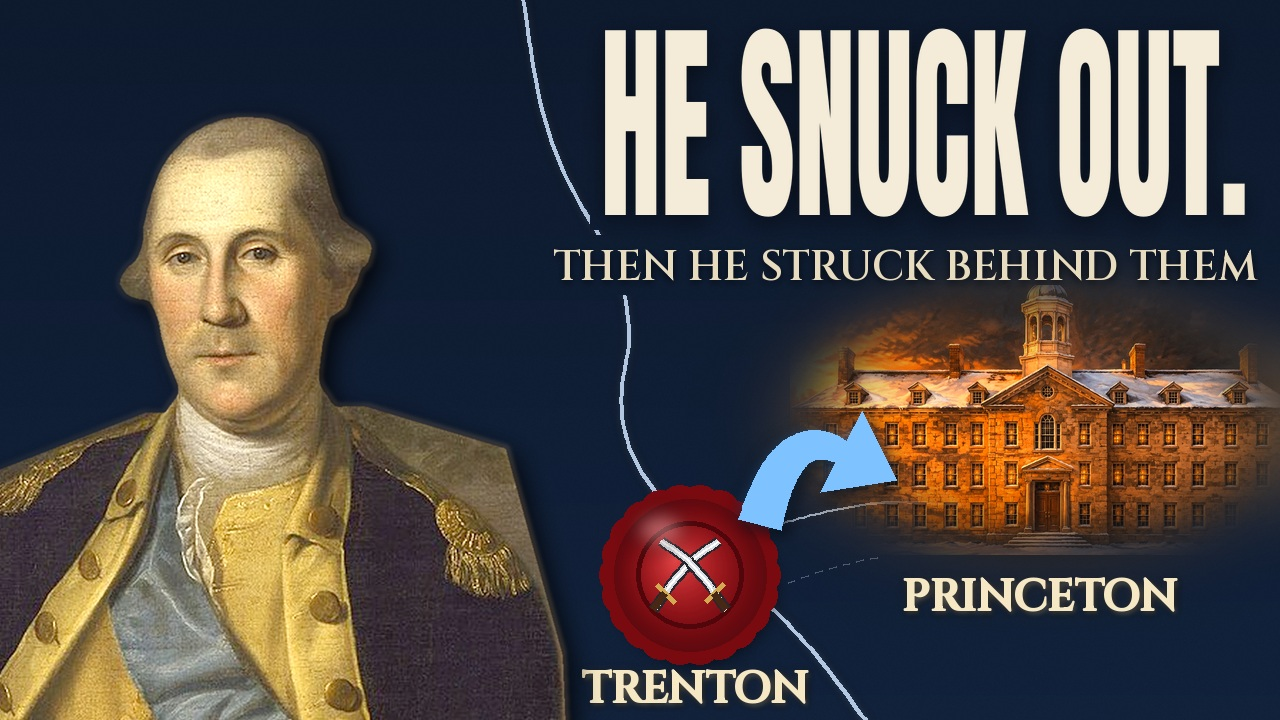
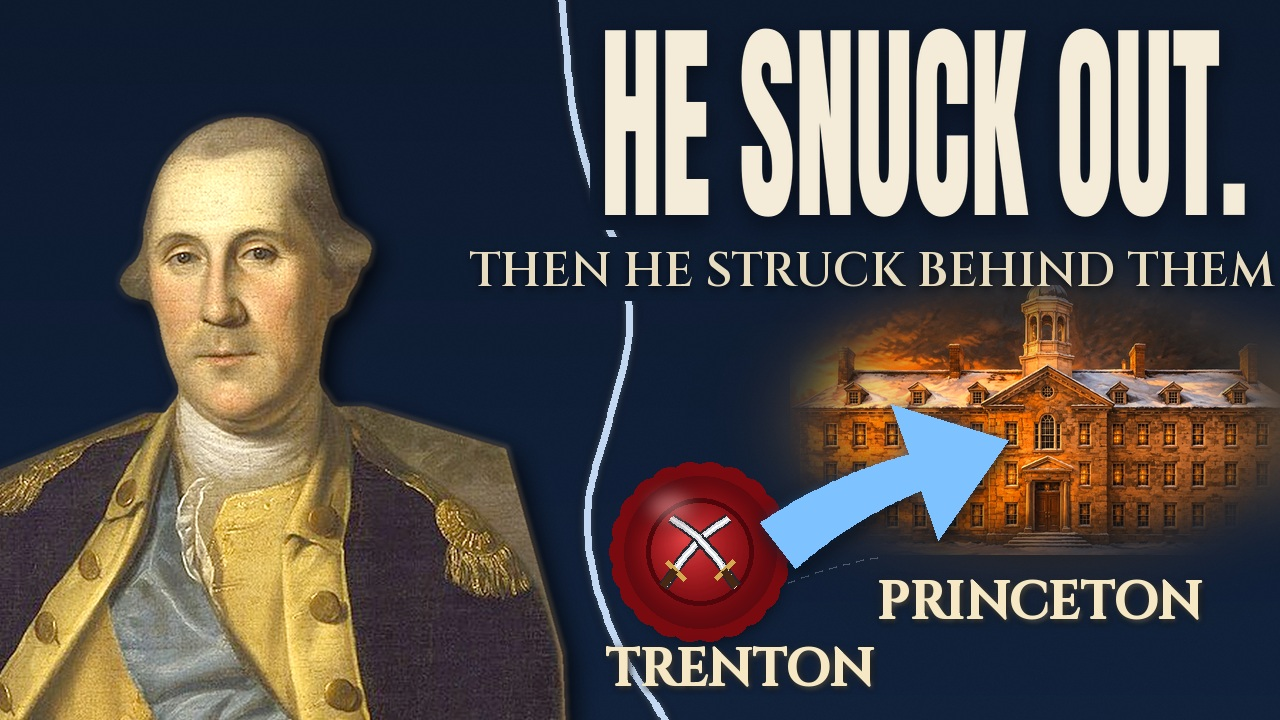
Washington: thumbnails v3 after critic 2
Claude-Session: https://claude.ai/code/session_011uJnjBmWWPVu63DLzFZfyj

diff --git a/washington/tools/make_thumbs_washington.py b/washington/tools/make_thumbs_washington.py
@@ -14,7 +14,7 @@ FACE = (940, 490); FH = 400.0                                    # face centre, 
 BODY = [(280, 1190), (300, 1140), (380, 960), (580, 790), (810, 700), (1120, 690), (1320, 750), (1400, 1040), (1410, 1280), (1380, 1400), (440, 1400)]
 CROP = (150, 200, 1600, 1400)
 
-def cutout(face_h, grade):
+def cutout(face_h, grade, feather=0):
     a = np.array(RAW.split()[3]); m = Image.new("L", RAW.size, 0); ImageDraw.Draw(m).polygon(BODY, fill=255)   # dark left sleeve is lost by rembg: add a body matte
     a = np.maximum(a, np.array(m)); a[1400:] = 0
     b = ORIG.crop(CROP).convert("RGBA"); a = a[CROP[1]:CROP[3], CROP[0]:CROP[2]].astype(np.float32)
@@ -25,6 +25,9 @@ def cutout(face_h, grade):
         rgb = ImageOps.colorize(g, black=(22, 15, 10), mid=(150, 114, 80), white=(250, 236, 210))
     else:
         rgb = ImageEnhance.Contrast(ImageEnhance.Color(rgb).enhance(1.0)).enhance(1.15); rgb = ImageEnhance.Brightness(rgb).enhance(1.1).point(lambda v: int(255 * (v / 255.0) ** 0.75))
+    if feather:   # soft-fade the lower-left coat edge so it has no hard seam
+        h_, w_ = a.shape; ramp = np.clip(np.arange(w_) / float(feather), 0, 1)[None, :]; vy = np.clip((np.arange(h_) - 0.30 * h_) / (0.15 * h_), 0, 1)[:, None]
+        a = a * (1 - vy * (1 - ramp ** 1.5))
     bb = rgb.convert("RGBA"); bb.putalpha(Image.fromarray(a.astype(np.uint8)))
     s = face_h / FH; bb = bb.resize((int(bb.width * s), int(bb.height * s)), Image.LANCZOS)
     return bb, ((FACE[0] - CROP[0]) * s, (FACE[1] - CROP[1]) * s)
@@ -38,27 +41,33 @@ def place(im, b, x0, y0, rim_col, rim_side, shadow=0.75, rim=0.3):
     im.alpha_composite(b, (x0, y0)); im.alpha_composite(r, (x0, y0)); return im
 
 # ====================================== A: BACK DOOR ======================================
-def boat(im, c, ang, L=70):
-    x, y = c; ca, sa = math.cos(ang), math.sin(ang); lay = Image.new("RGBA", im.size, (0, 0, 0, 0)); d = ImageDraw.Draw(lay); sh = Image.new("RGBA", im.size, (0, 0, 0, 0)); ds = ImageDraw.Draw(sh)
-    pts = [(-L / 2, 0), (-L / 3, 8), (L / 3, 8), (L / 2, 0), (L / 3, -8), (-L / 3, -8)]; P = [(x + a * ca - b * sa, y + a * sa + b * ca) for a, b in pts]
-    ds.polygon([(p[0] + 4, p[1] + 6) for p in P], fill=(0, 0, 0, 170)); d.polygon(P, fill=(40, 28, 20, 255), outline=(120, 96, 70, 255))
-    im = Image.alpha_composite(im, sh.filter(ImageFilter.GaussianBlur(3))); return Image.alpha_composite(im, lay)
+def boat(im, c, ang, L=62):
+    """small low dark Durham boat: pointed ends, pale gunwale line, short wake"""
+    x, y = c; ca, sa = math.cos(ang), math.sin(ang); R = lambda pts: [(x + a * ca - b * sa, y + a * sa + b * ca) for a, b in pts]
+    lay = Image.new("RGBA", im.size, (0, 0, 0, 0)); d = ImageDraw.Draw(lay)
+    d.polygon(R([(-L * .62, -9), (-L * .5, 0), (-L * .62, 9), (-L * .9, 14), (-L * 1.1, 0), (-L * .9, -14)]), fill=(235, 242, 250, 120))   # wake astern
+    hull = [(-L / 2, -2), (-L / 3, 9), (L / 3, 9), (L / 2, -2), (L * .6, 0), (L / 2, 2)]
+    hull = [(-L * .6, 0), (-L / 2, 7), (-L / 4, 10), (L / 4, 10), (L / 2, 7), (L * .6, 0), (L / 2, -7), (L / 4, -10), (-L / 4, -10), (-L / 2, -7)]
+    sh = Image.new("RGBA", im.size, (0, 0, 0, 0)); ImageDraw.Draw(sh).polygon([(p[0] + 3, p[1] + 5) for p in R(hull)], fill=(0, 0, 0, 160))
+    im = Image.alpha_composite(im, sh.filter(ImageFilter.GaussianBlur(3)))
+    d.polygon(R(hull), fill=(34, 24, 18, 255)); d.line(R(hull) + [R(hull)[0]], fill=(205, 190, 160, 255), width=2)
+    d.line(R([(-L * .45, 0), (L * .45, 0)]), fill=(70, 52, 38, 255), width=3)
+    return Image.alpha_composite(im, lay.filter(ImageFilter.GaussianBlur(0.6)))
 
 def variant_a():
     # background MIRRORED so the crossing reads west (PA, left) -> east (NJ, right); Trenton lies downstream (far, right bank)
     im = ImageOps.mirror(Image.open(T + "bg_vidiq_delaware.jpg").convert("RGB")).resize((W, H), Image.LANCZOS)
-    im = ImageEnhance.Contrast(ImageEnhance.Color(im).enhance(1.0)).enhance(1.2); im = ImageEnhance.Brightness(im).enhance(0.9).convert("RGBA")
+    im = ImageEnhance.Contrast(ImageEnhance.Color(im).enhance(1.3)).enhance(1.2); im = ImageEnhance.Brightness(im).enhance(1.12).convert("RGBA")   # +~20 % saturation/brightness, no vignette
     RED, BLUE = (200, 30, 36), (40, 92, 205)
-    for (x, y, c, r, a_) in [(800, 226, 4, 2, 0.18), (880, 238, 4, 2, 0.18), (950, 256, 3, 2, 0.3)]:   # Hessians at Trenton, NJ bank ridge
+    for (x, y, c, r, a_) in [(792, 262, 3, 2, 0.30), (850, 292, 3, 2, 0.34), (900, 326, 3, 2, 0.36)]:   # Hessians at Trenton: NJ bank, DOWNSTREAM (south-east) of the ferry
         im = formation(im, (x, y), RED, c, r, cw=18, ch=11, gap=3, ang=a_)
     for (x, y, c, r, a_) in [(70, 330, 6, 2, 0.5), (130, 392, 6, 2, 0.5), (170, 436, 5, 2, 0.5)]:      # Washington at McConkey's Ferry, PA bank slope
         im = formation(im, (x, y), BLUE, c, r, cw=23, ch=14, gap=3, ang=a_)
-    im = grunge_arrow(im, [(310, 470), (640, 580), (520, 290), (772, 246)], 84, 58, shadow=(235, 7, 10, 5))
-    im = parchment(im, (28, 205), ["MCCONKEY'S", "FERRY"], 44); im = parchment(im, (560, 120), ["TRENTON"], 46)
-    pan = Image.new("RGBA", (W, H), (0, 0, 0, 0)); pd = ImageDraw.Draw(pan)
-    for x in range(700, W): pd.line([(x, 0), (x, H)], fill=(16, 12, 9, int(215 * min(1, ((x - 700) / 420) ** 1.2))))
-    im = Image.alpha_composite(im, pan)
-    b, (fx, fy) = cutout(240, "sepia"); im = place(im, b, int(1115 - fx), int(250 - fy), (255, 200, 140), "left", shadow=0.85)
+    AP = [(310, 470), (640, 590), (560, 330), (800, 318)]
+    im = grunge_arrow(im, AP, 84, 58, shadow=(235, 7, 10, 5))
+    # Durham boats tried (critic 2 fix c): read as coffins at this size, so they are left out (boat() kept for reference)
+    im = parchment(im, (28, 205), ["MCCONKEY'S", "FERRY"], 50); im = parchment(im, (640, 168), ["TRENTON"], 52)
+    b, (fx, fy) = cutout(240, "sepia", feather=260); im = place(im, b, int(1115 - fx), int(250 - fy), (255, 200, 140), "left", shadow=0.7)
     f = ImageFont.truetype(AN, 138); tw = ImageDraw.Draw(im).textlength(WORD, font=f)
     bx0, by0, bx1, by1 = -10, 540, int(40 + tw + 50), 714; r = np.random.default_rng(8)
     m = Image.new("L", (W, H), 0); top = [(x, by0 + int(r.integers(-12, 13))) for x in range(bx0, bx1 + 1, 10)]; bot = [(x, by1 + int(r.integers(-10, 11))) for x in range(bx1, bx0 - 1, -10)]
@@ -79,15 +88,15 @@ def variant_b():
     n = Image.effect_noise((W, H), 22).convert("RGB"); base = Image.blend(base, ImageChops.overlay(base, n), 0.12); im = base.convert("RGBA")
     f0 = ImageFont.truetype(AN, 215); tmp = Image.new("L", (2000, 330), 0); ImageDraw.Draw(tmp).text((0, 0), WORD, font=f0, fill=255); glyph = tmp.crop(tmp.getbbox())
     glyph = glyph.resize((min(640, int(glyph.width * 1.3)), glyph.height), Image.LANCZOS); gx, gy = int(925 - glyph.width / 2), 28
-    sub = TWIST; fs = ImageFont.truetype(SER, 42); s = " ".join(" ".join(w) if False else w for w in sub.split()); s = " ".join(sub.split()); sy_ = gy + glyph.height + 22
-    tm = Image.new("L", (W, H), 0); tm.paste(glyph, (gx, gy)); ImageDraw.Draw(tm).text((905, sy_), s, font=fs, fill=255, anchor="ma")
+    sub = TWIST; fs = ImageFont.truetype(SER, 48); s = " ".join(" ".join(w) if False else w for w in sub.split()); s = " ".join(sub.split()); sy_ = gy + glyph.height + 22
+    tm = Image.new("L", (W, H), 0); tm.paste(glyph, (gx, gy)); ImageDraw.Draw(tm).text((872, sy_), s, font=fs, fill=255, anchor="ma")
     # faint hairline rivers: Delaware (down the right-centre), Assunpink (short branch), roads to Princeton (dashed hairlines)
     lay = Image.new("RGBA", (W, H), (0, 0, 0, 0)); d = ImageDraw.Draw(lay)
     def chaikin(p, n=4):
         for _ in range(n): p = [p[0]] + [q for a, b in zip(p, p[1:]) for q in ((0.75 * a[0] + 0.25 * b[0], 0.75 * a[1] + 0.25 * b[1]), (0.25 * a[0] + 0.75 * b[0], 0.25 * a[1] + 0.75 * b[1]))] + [p[-1]]
         return p
-    delaware = chaikin([(520, -20), (545, 150), (640, 300), (610, 430), (690, 540), (790, 620), (880, 740)])
-    d.line(delaware, fill=(207, 228, 255, 215), width=4, joint="curve"); d.line(chaikin([(705, 548), (790, 520), (880, 500), (960, 505)]), fill=(207, 228, 255, 200), width=3)  # Assunpink
+    delaware = chaikin([(560, -20), (575, 150), (640, 300), (610, 420), (580, 520), (610, 640), (680, 740)])
+    d.line(delaware, fill=(207, 228, 255, 235), width=7, joint="curve")   # Delaware, west of Trenton (Trenton is on the east bank)
     for _ in range(0): pass
     g = lay.filter(ImageFilter.GaussianBlur(5)); lay = Image.alpha_composite(g, lay)
     rd = Image.new("RGBA", (W, H), (0, 0, 0, 0)); rdd = ImageDraw.Draw(rd)
@@ -97,7 +106,7 @@ def variant_b():
         for k in range(int(L // 14)): rdd.line([(x0 + (x1 - x0) * k * 14 / L, y0 + (y1 - y0) * k * 14 / L), (x0 + (x1 - x0) * (k * 14 + 7) / L, y0 + (y1 - y0) * (k * 14 + 7) / L)], fill=(190, 205, 225, 90), width=2)
     lay = Image.alpha_composite(lay, rd)
     lay.putalpha(ImageChops.subtract(lay.split()[3], tm.filter(ImageFilter.MaxFilter(31)))); im = Image.alpha_composite(im, lay)
-    sx, sy = 690, 575
+    sx, sy = 700, 552
     # payoff = painted Nassau Hall (vidIQ), crop of the building, soft vignette + thin gold frame
     fr = Image.open(T + "icon_vidiq_nassau.jpg").convert("RGB").crop((170, 150, 1830, 1000)); fw, fh = 500, 270; fr = fr.resize((fw, fh), Image.LANCZOS)
     fr = ImageEnhance.Contrast(ImageEnhance.Color(fr).enhance(1.1)).enhance(1.05)
@@ -108,14 +117,14 @@ def variant_b():
     im.alpha_composite(fr, (px, py))
     im = glossy_seal(im, (sx, sy), 76)
     # ONE glowing blue arrow: from Trenton round (behind the British) to Princeton
-    im = taper_arrow(im, [(sx + 70, sy - 50), (sx + 100, sy - 170), (px + 70, py + fh - 90)], 44, 24, (126, 195, 255, 255), glow=(70, 150, 240, 190))
-    fl = ImageFont.truetype(SER, 44)
-    for t, (x, y) in [("TRENTON", (sx + 5, sy + 84)), ("PRINCETON", (ix, py + fh + 12))]:
+    im = taper_arrow(im, [(sx + 78, sy - 6), (sx + 150, sy - 62), (px + 150, py + fh - 90)], 58, 38, (126, 195, 255, 255), glow=(70, 150, 240, 190))
+    fl = ImageFont.truetype(SER, 52)
+    for t, (x, y) in [("TRENTON", (sx + 40, sy + 82)), ("PRINCETON", (ix, py + fh + 12))]:
         g = Image.new("RGBA", (W, H), (0, 0, 0, 0)); ImageDraw.Draw(g).text((x, y), t, font=fl, fill=(255, 210, 140, 160), anchor="ma"); im = Image.alpha_composite(im, g.filter(ImageFilter.GaussianBlur(6)))
         im = text_shadow(im, (x, y), t, fl, (246, 232, 196), "ma", off=(2, 3), blur=3, op=220, stroke_width=1, stroke_fill=(246, 232, 196))
     sh = Image.new("RGBA", (W, H), (0, 0, 0, 0)); shg = Image.new("RGBA", glyph.size, (0, 0, 0, 255)); shg.putalpha(glyph.point(lambda v: int(v * 0.5))); sh.alpha_composite(shg, (gx, gy + 8))
     im = Image.alpha_composite(im, sh.filter(ImageFilter.GaussianBlur(12))); col = Image.new("RGBA", glyph.size, (244, 236, 216, 255)); col.putalpha(glyph); im.alpha_composite(col, (gx, gy))
-    im = text_shadow(im, (905, sy_), s, fs, (232, 220, 192), "ma", off=(0, 3), blur=4, op=180)
+    im = text_shadow(im, (872, sy_), s, fs, (232, 220, 192), "ma", off=(0, 3), blur=4, op=180)
     b, (fx, fy) = cutout(285, "warm"); x0, y0 = int(235 - fx), int(262 - fy)
     im = place(im, b, x0, y0, (255, 200, 140), "right", shadow=0.85)
     out = "youtube/thumb_B_HE_SNUCK_OUT.jpg"; im.convert("RGB").save(out, quality=94); return out
